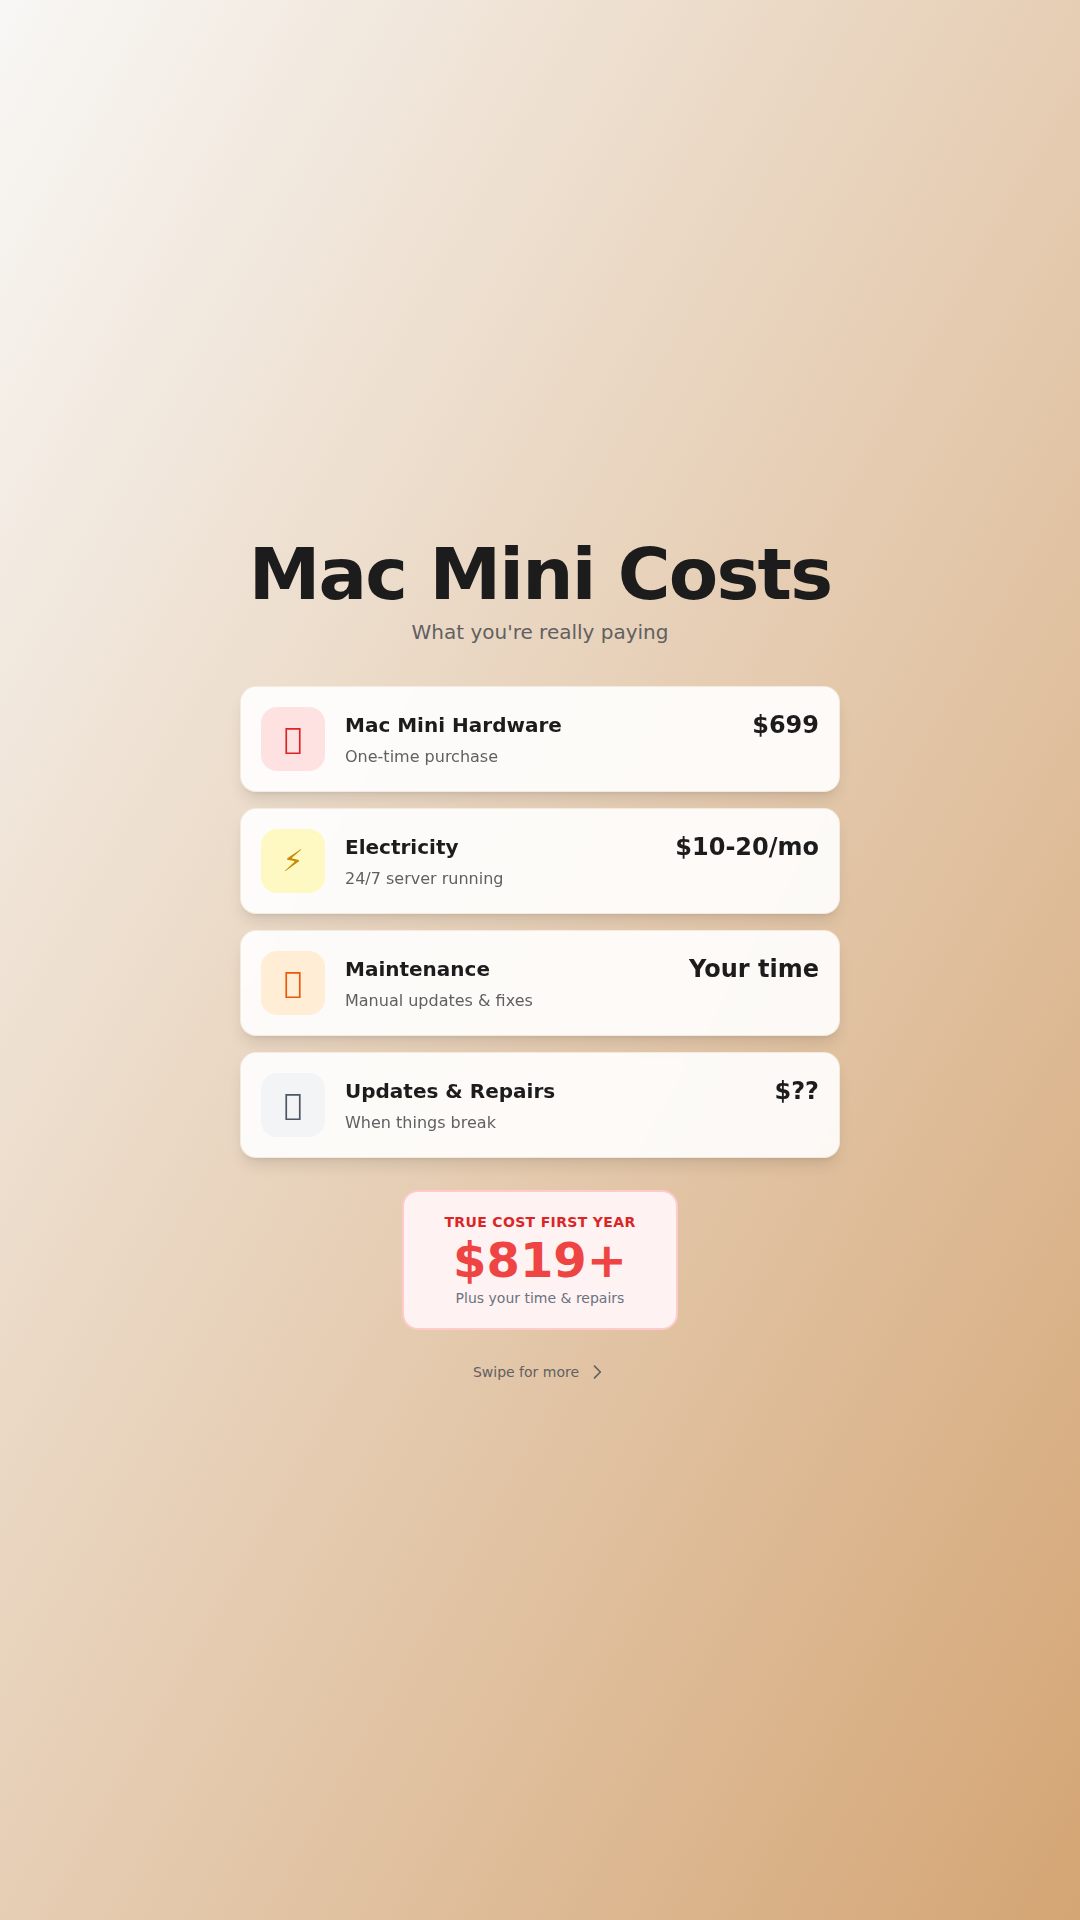
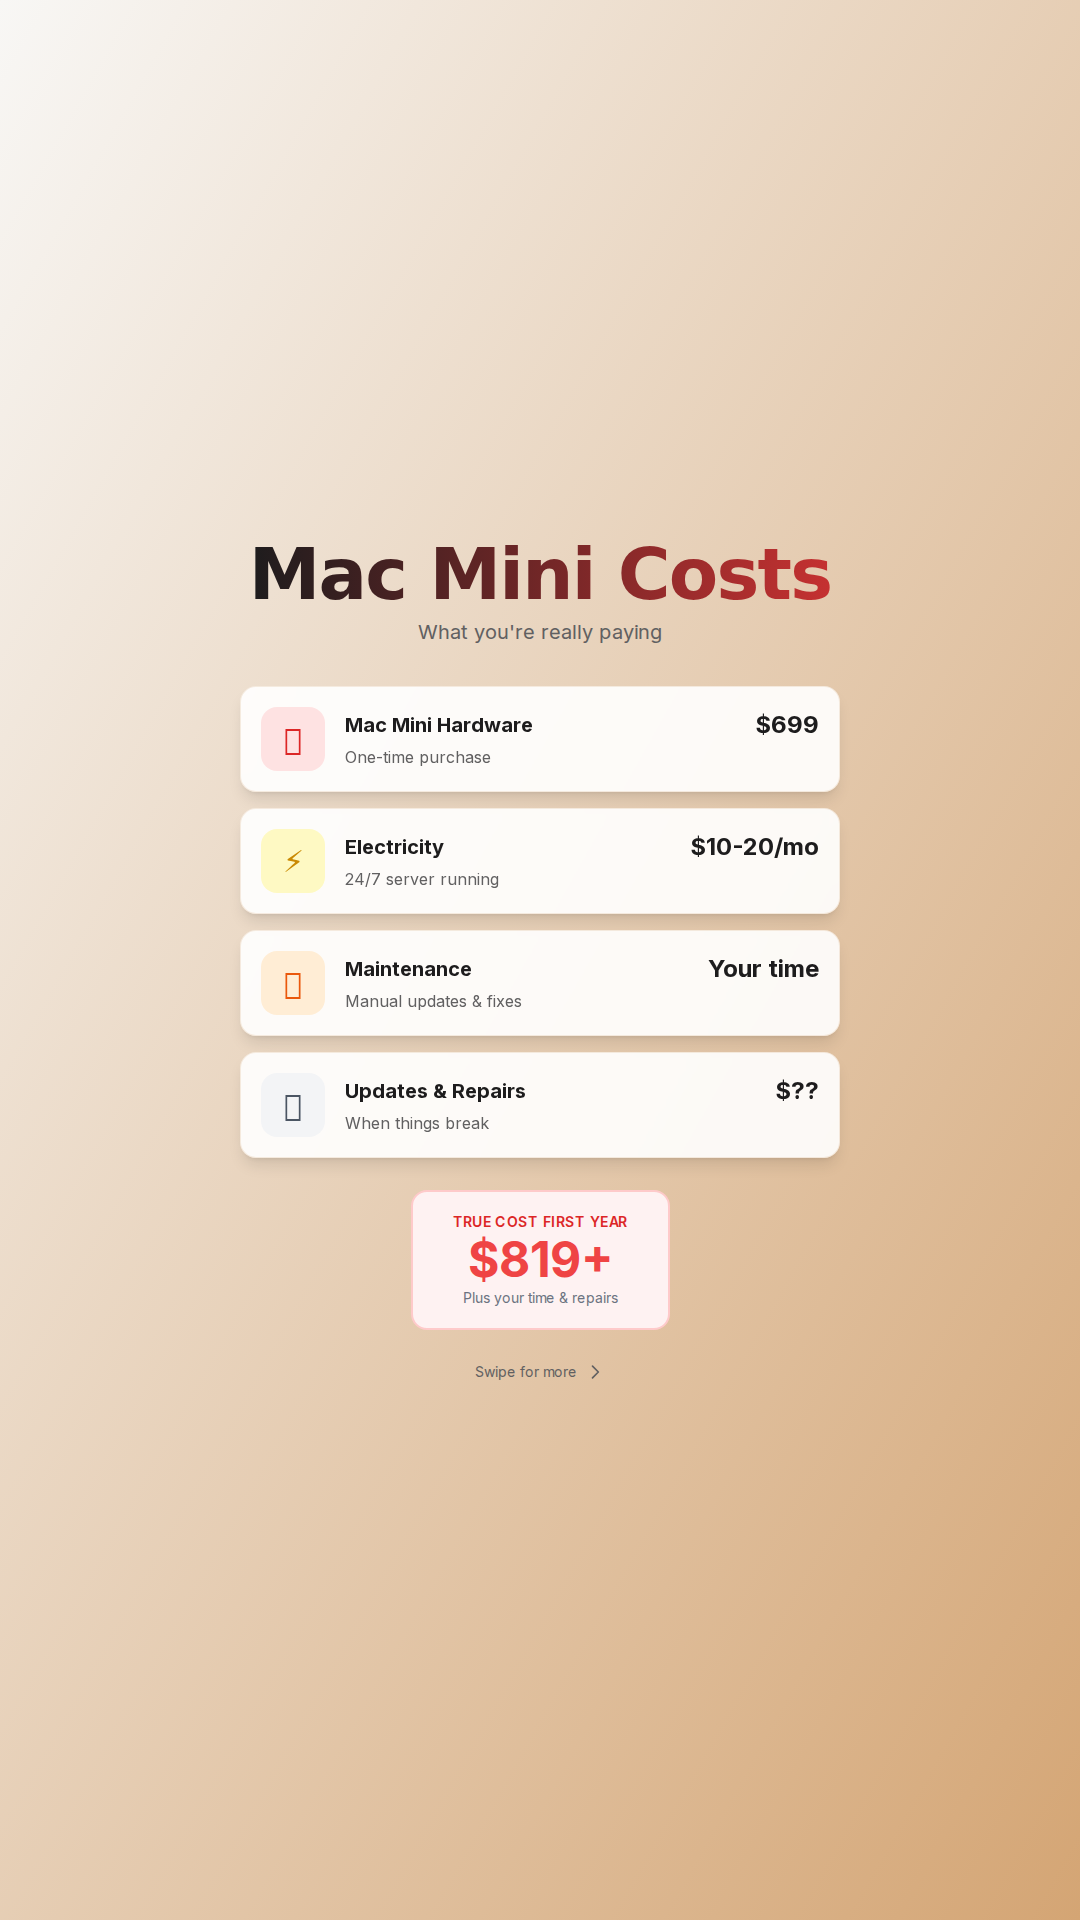
Update Post 2: Add brand gradient to all headlines
- Slide 1: Self-Hosting vs InstantClaw (gradient)
- Slide 2: Mac Mini Costs (gradient)
- Slide 3: Time to Deploy (gradient)
- Slide 4: Both lines now have gradient
- Regenerated all screenshots

diff --git a/pages/post2-slide-04.js b/pages/post2-slide-04.js
@@ -8,7 +8,7 @@ const Post2Slide04CTA = () => {
     <div className={`${inter.className} min-h-screen w-full flex flex-col items-center justify-center bg-gradient-to-br from-[#F8F7F5] to-[#D4A574] p-8 font-sans antialiased`}>
       {/* Main Headline */}
       <div className="text-center max-w-[800px] mb-8">
-        <h1 className="font-sans text-6xl md:text-7xl lg:text-8xl font-bold tracking-tight leading-[1.1] text-[#1D1C1D] mb-6">
+        <h1 className="font-sans text-6xl md:text-7xl lg:text-8xl font-bold tracking-tight leading-[1.1] bg-gradient-to-r from-[#1D1C1D] via-[#c53131] via-[#D4A574] to-[#1D1C1D] bg-clip-text text-transparent bg-[length:200%_auto] mb-6">
           Stop Configuring Servers.
         </h1>
         <h2 className="font-sans text-5xl md:text-6xl lg:text-7xl font-bold tracking-tight bg-gradient-to-r from-[#1D1C1D] via-[#c53131] via-[#D4A574] to-[#1D1C1D] bg-clip-text text-transparent bg-[length:200%_auto]">

diff --git a/pages/post2-slide-01.js b/pages/post2-slide-01.js
@@ -8,7 +8,7 @@ const Post2Slide01Cover = () => {
     <div className={`${inter.className} min-h-screen w-full flex flex-col items-center justify-center bg-gradient-to-br from-[#F8F7F5] to-[#D4A574] p-8 font-sans antialiased`}>
       {/* Title */}
       <div className="text-center mb-6">
-        <h1 className="font-sans text-5xl md:text-6xl font-bold tracking-tight text-[#1D1C1D] mb-3">
+        <h1 className="font-sans text-5xl md:text-6xl font-bold tracking-tight bg-gradient-to-r from-[#1D1C1D] via-[#c53131] via-[#D4A574] to-[#1D1C1D] bg-clip-text text-transparent bg-[length:200%_auto] mb-3">
           Self-Hosting vs InstantClaw
         </h1>
         <p className="text-xl text-[#616061]">Why spend days when you can deploy in seconds?</p>

diff --git a/pages/post2-slide-02-list.js b/pages/post2-slide-02-list.js
@@ -40,7 +40,7 @@ const Post2Slide02List = () => {
     <div className={`${inter.className} min-h-screen w-full flex flex-col items-center justify-center bg-gradient-to-br from-[#F8F7F5] to-[#D4A574] p-8 font-sans antialiased`}>
       {/* Title */}
       <div className="text-center mb-10">
-        <h1 className="font-sans text-5xl md:text-6xl lg:text-7xl font-bold tracking-tight text-[#1D1C1D] mb-2">
+        <h1 className="font-sans text-5xl md:text-6xl lg:text-7xl font-bold tracking-tight bg-gradient-to-r from-[#1D1C1D] via-[#c53131] via-[#D4A574] to-[#1D1C1D] bg-clip-text text-transparent bg-[length:200%_auto] mb-2">
           Mac Mini Costs
         </h1>
         <p className="text-xl text-[#616061]">What you're really paying</p>

diff --git a/pages/post2-slide-03-progress.js b/pages/post2-slide-03-progress.js
@@ -9,7 +9,7 @@ const Post2Slide03Progress = () => {
     <div className={`${inter.className} min-h-screen w-full flex flex-col items-center justify-center bg-gradient-to-br from-[#F8F7F5] to-[#D4A574] p-8 font-sans antialiased`}>
       {/* Title */}
       <div className="text-center mb-10">
-        <h1 className="font-sans text-5xl md:text-6xl lg:text-7xl font-bold tracking-tight text-[#1D1C1D] mb-3">
+        <h1 className="font-sans text-5xl md:text-6xl lg:text-7xl font-bold tracking-tight bg-gradient-to-r from-[#1D1C1D] via-[#c53131] via-[#D4A574] to-[#1D1C1D] bg-clip-text text-transparent bg-[length:200%_auto] mb-3">
           Time to Deploy
         </h1>
         <p className="text-xl text-[#616061]">The difference is clear</p>

diff --git a/pages/index.js b/pages/index.js
@@ -1,4 +1,4 @@
 import React from 'react';
-import Post3Slide06CTA from './post3-slide-06';
+import Post2Slide04CTA from './post2-slide-04';
 
-export default Post3Slide06CTA;
+export default Post2Slide04CTA;
